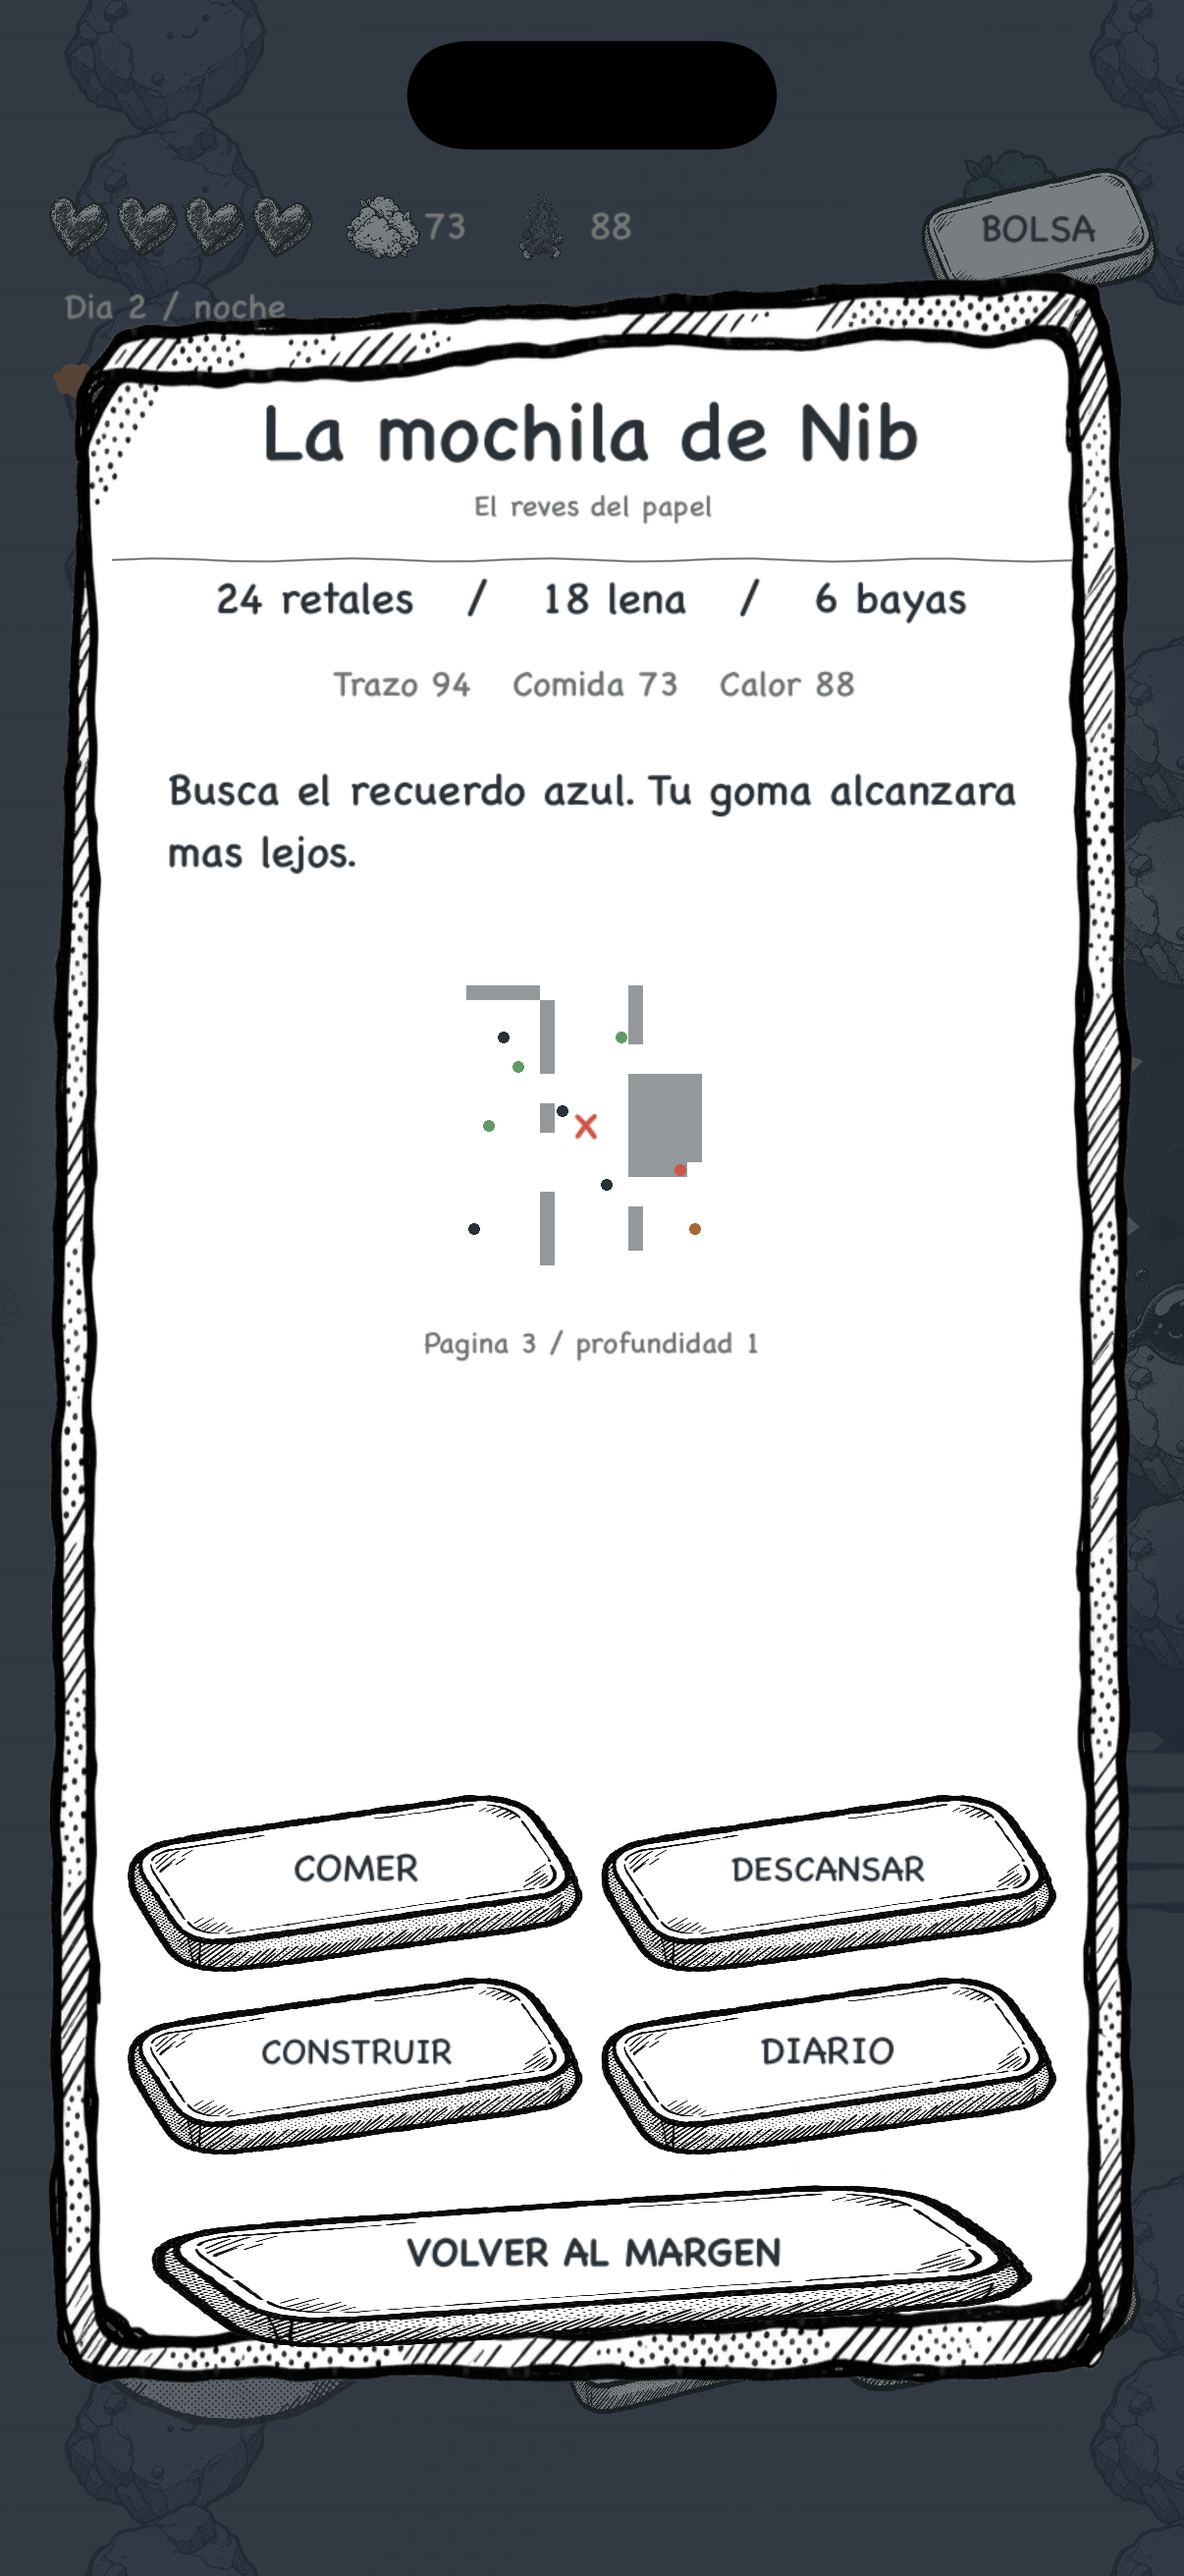
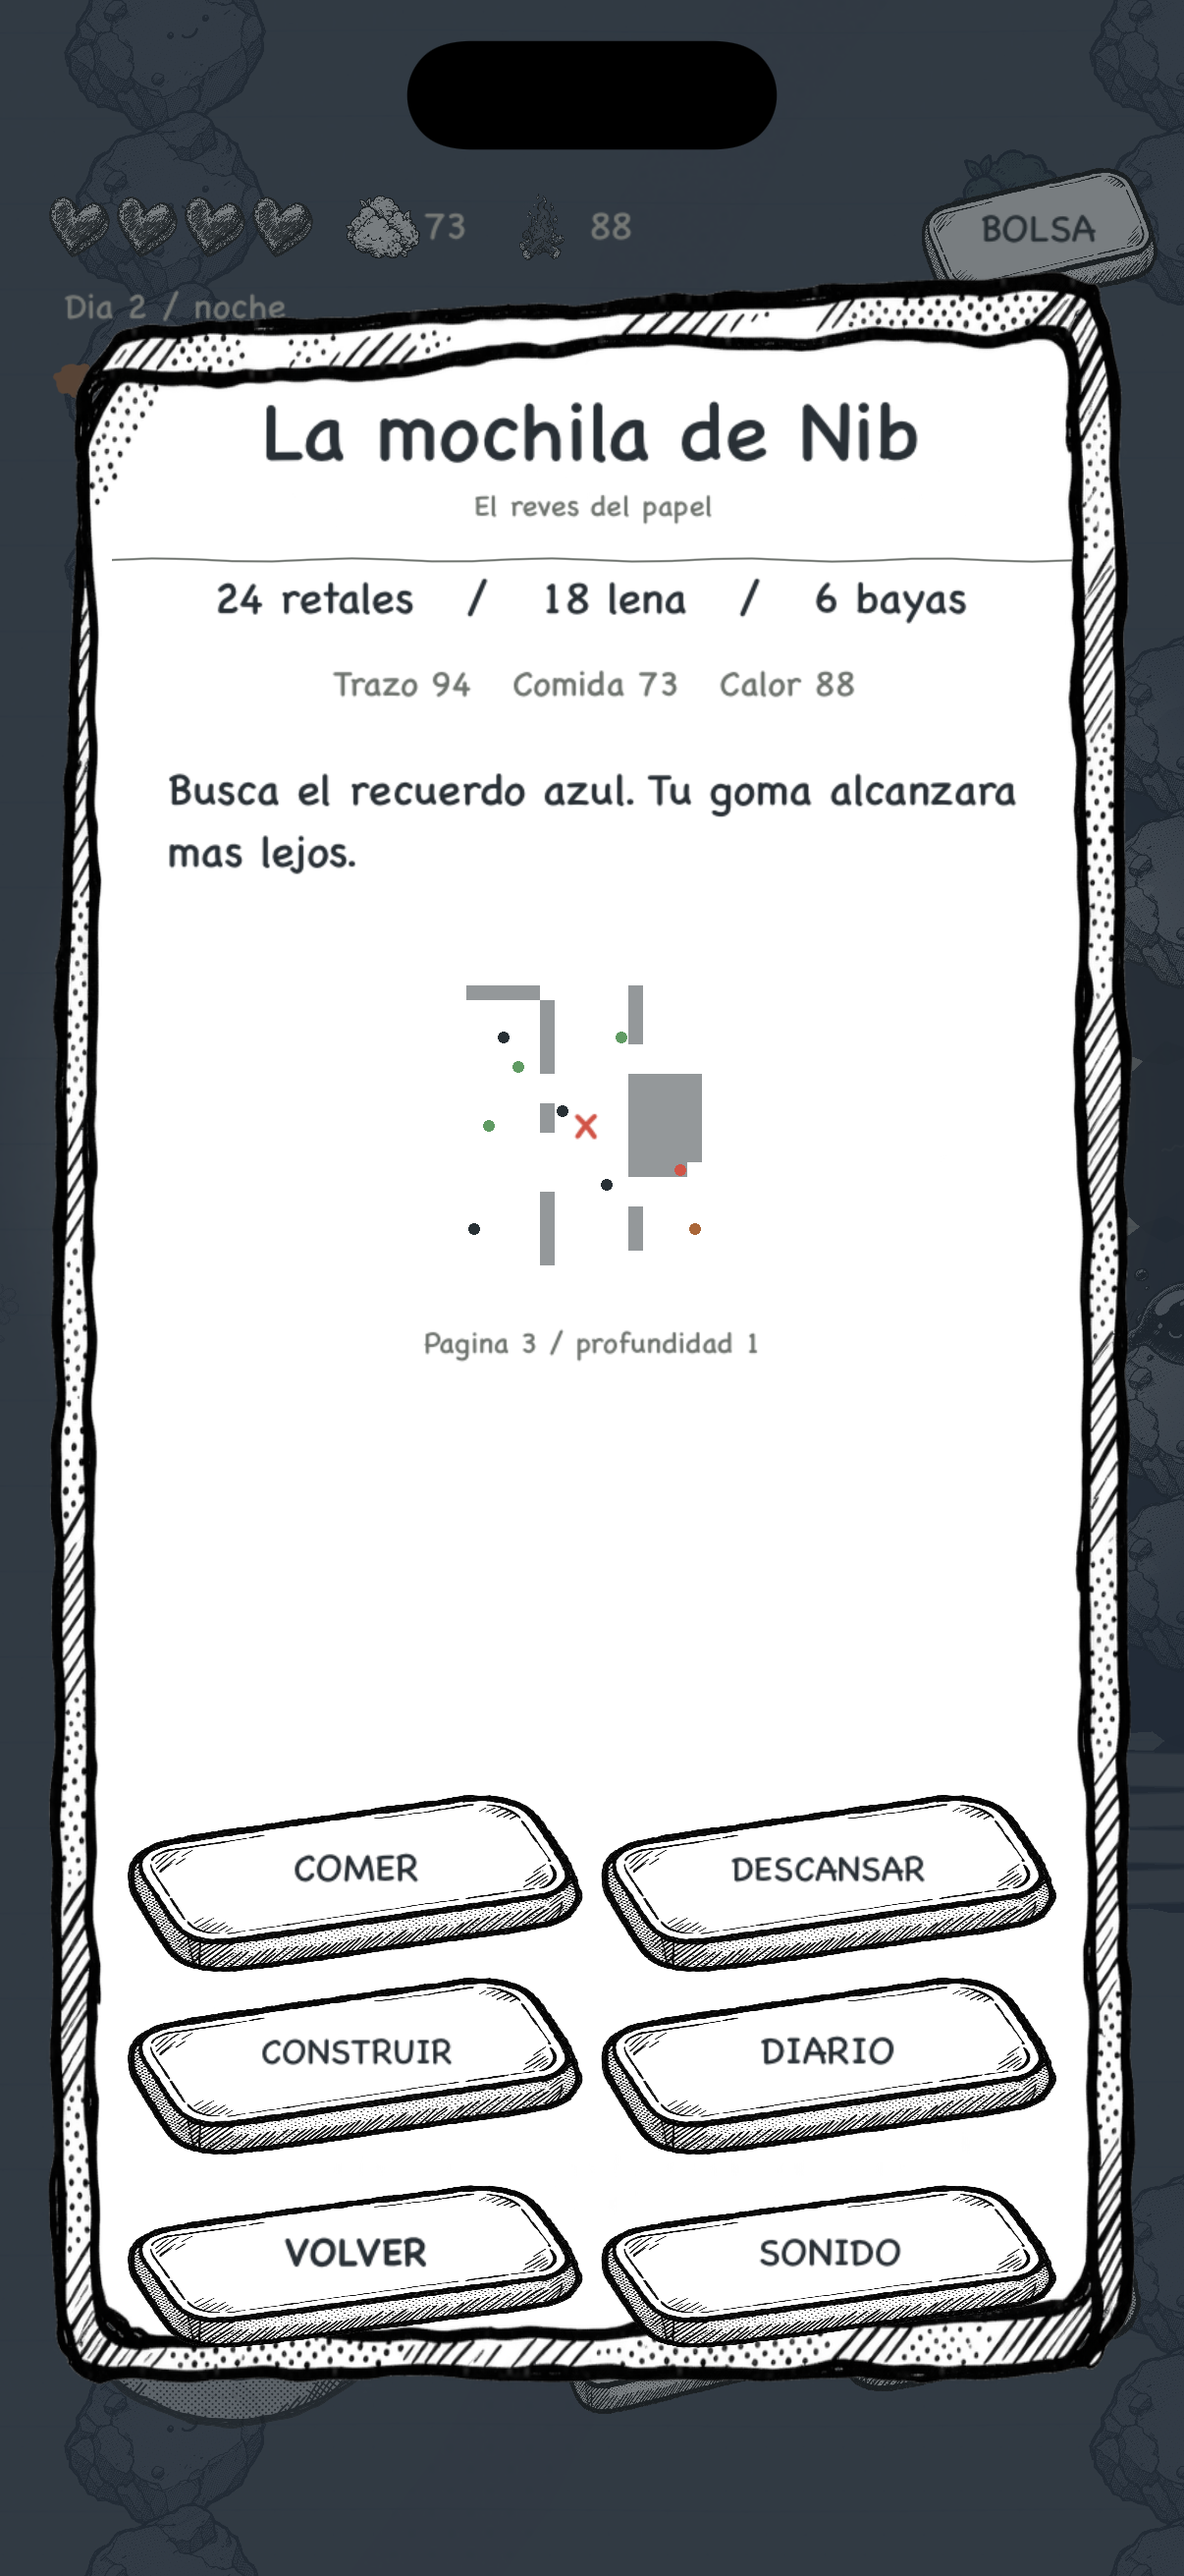
Document the audio release and verified nighttime recovery
Refresh iPhone simulator captures for version 2.2, including the in-game sound controls and the fatal ink-contact recovery fixture.

Changed region(s): [[0.092, 0.8341, 0.8897, 0.9268]]

diff --git a/docs/screenshots/README.md b/docs/screenshots/README.md
@@ -1,9 +1,9 @@
 # El desborde: iPhone screenshots
 
 These are actual `simctl` captures from the iPhone 17 Pro simulator, at
-1206 x 2622 pixels. The source is version 2.1 (build 3), commit
-`1d0050fb29e08766de4e85a85b9dd24e05e37c53`, captured in
-[workflow run 33959915583](https://github.com/jrubiosainz/notebookgame/actions/runs/33959915583).
+1206 x 2622 pixels. The source is version 2.2 (build 4), commit
+`3c9b67c895acc763bc4f2f7b63018222c848a091`, captured in
+[workflow run 34158882903](https://github.com/jrubiosainz/notebookgame/actions/runs/34158882903).
 The run also builds the unsigned iOS Release app. These are not physical-device
 captures or a TestFlight distribution.
 
@@ -18,6 +18,8 @@ captures or a TestFlight distribution.
 | 07-the-violet-seam | A deeper page and the next pigment |
 | 08-the-workbench | Construction recipes, shown only when opened |
 | 09-the-bag | Supplies, local map, objectives and secondary actions |
+| 10-sound-settings | Separate saved levels for music, effects and ambience |
+| 11-night-contact-recovery | Safe respawn after fatal contact with two ink creatures at night |
 
 `overview.png` simply arranges three of these unaltered screenshots. Reproduce
 the gallery using `swift tools/contact_sheet.swift <downloaded-captures> <output.png>`.
@@ -27,6 +29,10 @@ and first page are fresh states; later scenes seed reachable progress and a camp
 to make visual comparisons reproducible. The actual campaign is separately
 walked through using the game engine's movement, interaction and survival APIs.
 Fixtures neither load nor overwrite the player's adventure save.
+The nighttime-contact fixture starts at one point of integrity with two nearby
+creatures, exercising the arrival cleanup that previously crashed on the device.
+Audio is muted in capture fixtures; normal gameplay uses the original soundtrack
+and effects documented in `docs/AUDIO.md`.
 
 `nib-motion.gif` is a separate native macOS recording of the **same SpriteKit
 character animator** used on iPhone. It shows four walking directions plus

diff --git a/README.md b/README.md
@@ -106,9 +106,9 @@ reported, not silently replaced. New game requires confirmation.
 
 ![The restored full-screen notebook adventure](docs/screenshots/overview.png)
 
-[Nine iPhone screenshots](docs/screenshots/) show the actual game running in the
+[Eleven iPhone screenshots](docs/screenshots/) show the actual game running in the
 iPhone 17 Pro simulator, not concept art. They were captured by
-[the iPhone workflow](https://github.com/jrubiosainz/notebookgame/actions/runs/33959915583).
+[the iPhone workflow](https://github.com/jrubiosainz/notebookgame/actions/runs/34158882903).
 Development captures use explicit, reproducible gameplay fixtures, including a
 built night camp; they never overwrite a player's save.
 
